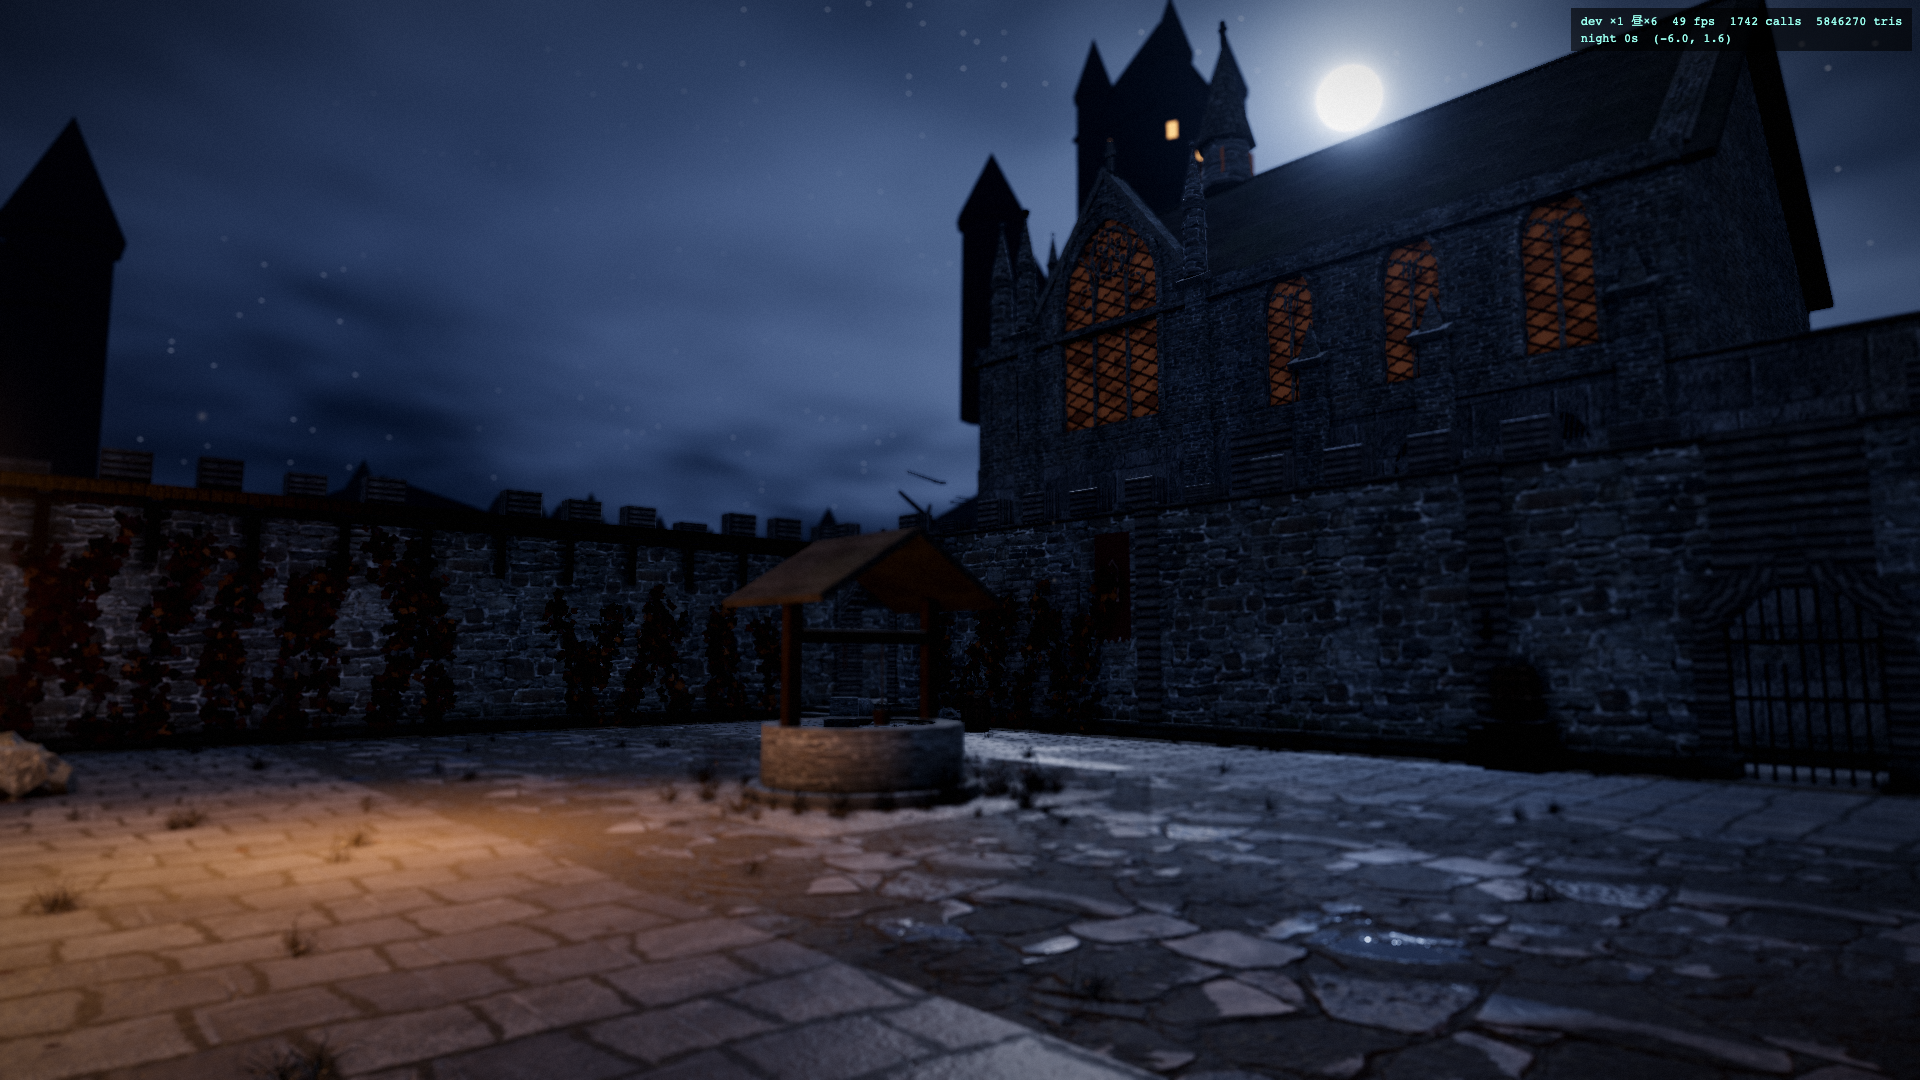
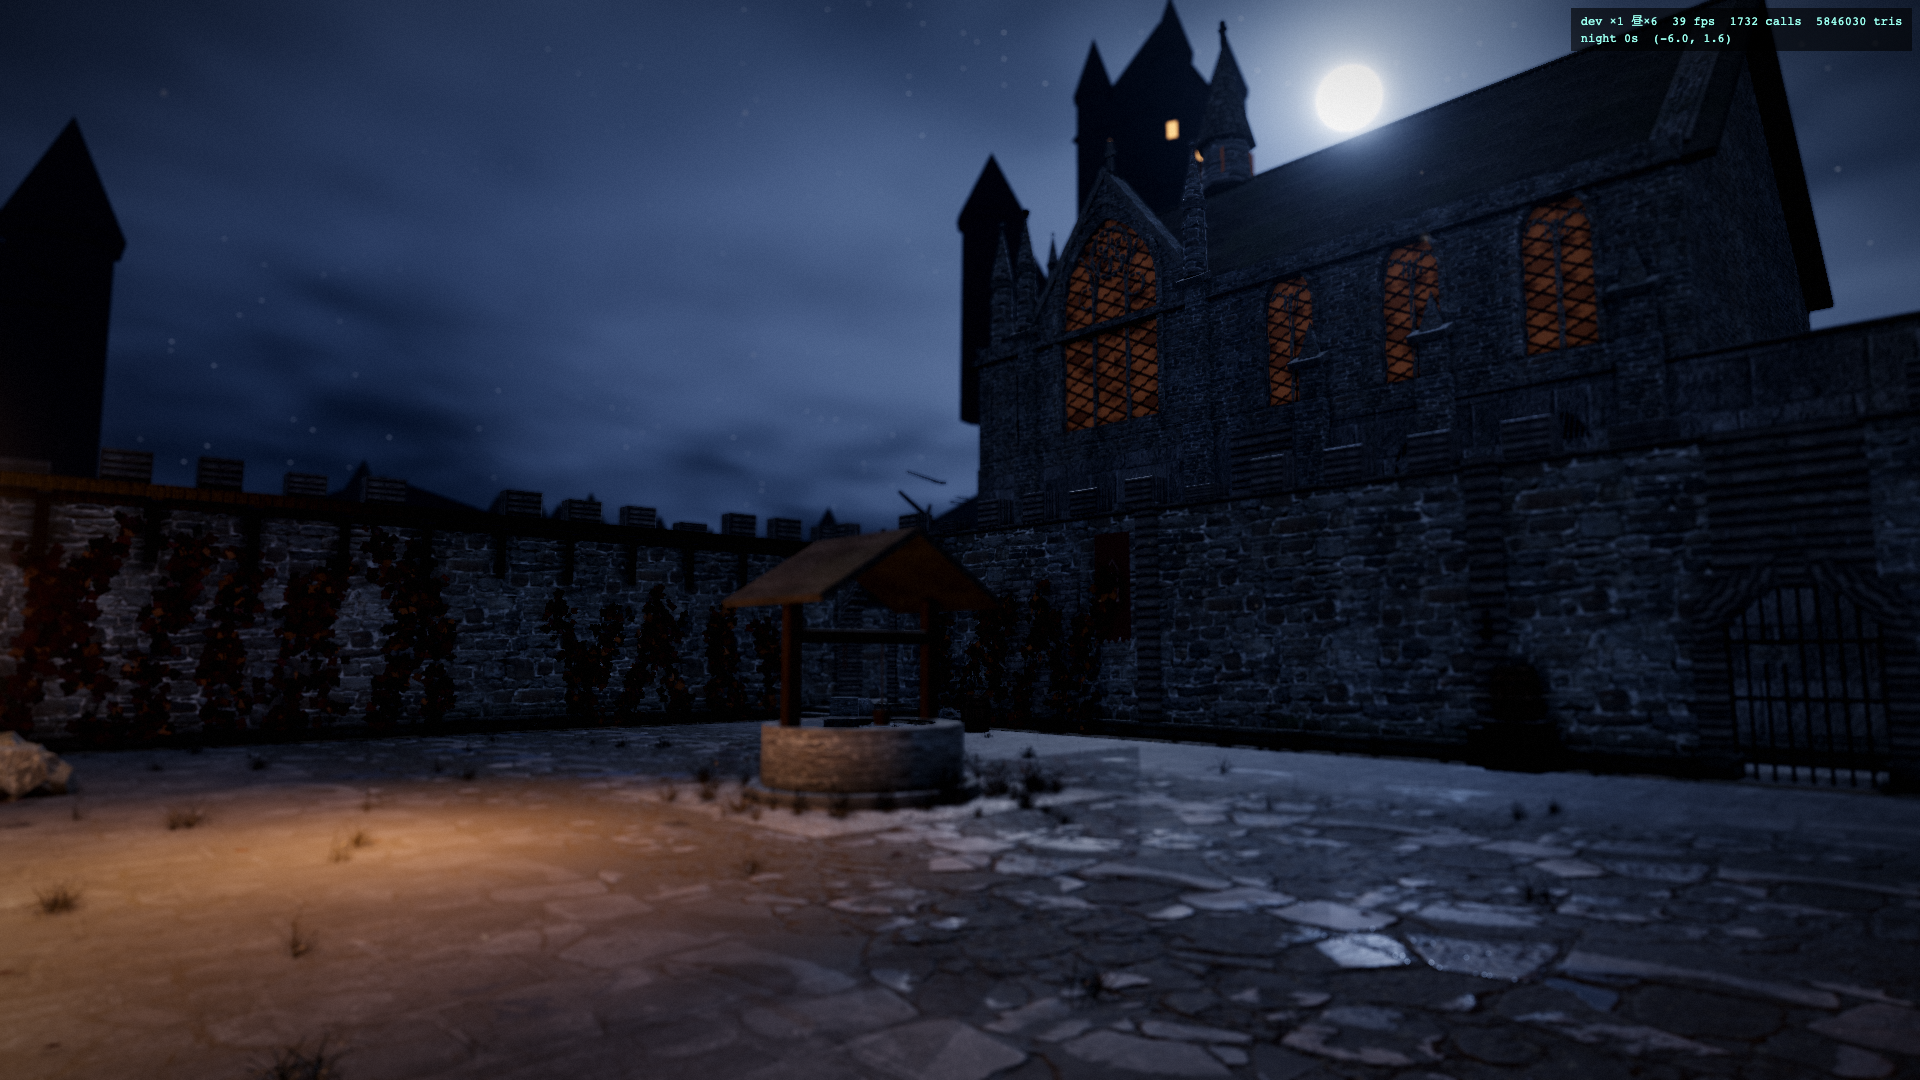
env: noise-blended main-path/edge floor transition; verify POM grazing at 1920x1080
- floor transition (bible 5.1 rule 4): courtyard is now one floorFlag mesh; shader blends
  monastery (main) <-> stone_pavers (edge) albedo/normal/roughness/height by world-x + low-freq
  noise mask (irregular boundary, ~1.2m band), dirt accents in band, edge grime gradient.
  Removes the straight x=+/-4.5 seam visible under the lamp pool.
- POM grazing clamp confirmed resolution-independent at 1920x1080 (north wall + extreme west
  wall grazing both readable, no black face).
- brightness via unified measure.sh: ref-day over 0 / gfrac 0 (no blown ground specular);
  albedo untouched per director (integration ground 0.365 in range with render exposure).
- vitest 108 pass; refreshed 6 verification screenshots.

diff --git a/src/render/materials.ts b/src/render/materials.ts
@@ -554,6 +554,14 @@ export interface AwUniforms {
   uAwPuddleAmt: { value: number };
   /** 积水洼地中心（世界 xz）+ 半径 + 强度，与 vfx.ts 的 PUDDLES 保持一致。 */
   uAwPuddles: { value: THREE.Vector4[] };
+  /** 主路↔边缘混合过渡（5.1 反重复第 4 条）：第二套贴图 + 世界 x 噪声遮罩，仅庭院地面启用。 */
+  uAwBlendAlbedo: { value: THREE.Texture };
+  uAwBlendNormal: { value: THREE.Texture };
+  uAwBlendRough: { value: THREE.Texture };
+  uAwBlendDisp: { value: THREE.Texture };
+  uAwHasBlend: { value: number };
+  uAwBlendHalf: { value: number };
+  uAwBlendBand: { value: number };
 }
 
 /** 庭院积水洼地（模拟坐标 x,z,r），与 vfx.ts PUDDLES 完全一致；着色器里 z 取负转到世界坐标。 */
@@ -589,6 +597,13 @@ export function awUniforms(floor: number, wet: number, desat: number, tint: [num
     uAwGrid: { value: 0 },
     uAwPuddleAmt: { value: 0 },
     uAwPuddles: { value: PUDDLE_CENTERS.map(([x, z, r]) => new THREE.Vector4(x, -z, r, 0.9)) },
+    uAwBlendAlbedo: { value: AW_FALLBACK_HEIGHT },
+    uAwBlendNormal: { value: AW_FALLBACK_HEIGHT },
+    uAwBlendRough: { value: AW_FALLBACK_HEIGHT },
+    uAwBlendDisp: { value: AW_FALLBACK_HEIGHT },
+    uAwHasBlend: { value: 0 },
+    uAwBlendHalf: { value: 4.5 },
+    uAwBlendBand: { value: 1.2 },
   };
 }
 
@@ -616,15 +631,18 @@ const AW_FRAG_PREFIX = /* glsl */`
 varying vec3 vAwWorldPos;
 varying vec3 vAwWorldNormal;
 uniform float uAwSteps, uAwFloor, uAwWet, uAwDesat, uAwHeightScale, uAwHasDisp, uAwHasCells, uAwGrid, uAwPuddleAmt;
+uniform float uAwHasBlend, uAwBlendHalf, uAwBlendBand;
 uniform vec2 uAwStreakBand;
 uniform vec4 uAwWear[3];
 uniform vec4 uAwPuddles[4];
 float awPolish;
 uniform vec3 uAwTint;
 uniform sampler2D uAwHeightMap, uAwAlbedo, uAwCellMap;
+uniform sampler2D uAwBlendAlbedo, uAwBlendNormal, uAwBlendRough, uAwBlendDisp;
 vec2 awUv;
-float awWet, awMoss, awBase, awMacro, awMacro2, awUp, awJGeo, awSlabHash, awPuddle, awStoneA, awEdge;
+float awWet, awMoss, awBase, awMacro, awMacro2, awUp, awJGeo, awSlabHash, awPuddle, awStoneA, awEdge, awBlend;
 vec2 awW;
+mat3 awTBNg;
 float awHash(vec2 p) { p = fract(p * vec2(123.34, 456.21)); p += dot(p, p + 45.32); return fract(p.x * p.y); }
 float awNoise(vec2 p) {
   vec2 i = floor(p), f = fract(p); f = f * f * (3.0 - 2.0 * f);
@@ -633,7 +651,9 @@ float awNoise(vec2 p) {
 }
 float awFbm(vec2 p) { return 0.6 * awNoise(p) + 0.3 * awNoise(p * 2.13 + 7.7) + 0.1 * awNoise(p * 4.7 + 3.1); }
 float awHeight(vec2 uv) {
-  return uAwHasDisp > 0.5 ? texture2D(uAwHeightMap, uv).r : dot(texture2D(uAwAlbedo, uv).rgb, vec3(0.3333));
+  float h = uAwHasDisp > 0.5 ? texture2D(uAwHeightMap, uv).r : dot(texture2D(uAwAlbedo, uv).rgb, vec3(0.3333));
+  if (uAwHasBlend > 0.5) h = mix(h, texture2D(uAwBlendDisp, uv).r, awBlend);
+  return h;
 }
 vec2 awPom(vec2 uv, vec3 vTs) {
   if (uAwSteps < 1.0) return uv;
@@ -664,6 +684,14 @@ const AW_MAP_BLOCK = /* glsl */`
 {
   vec3 awN = normalize(vAwWorldNormal);
   vec3 awV = normalize(cameraPosition - vAwWorldPos);
+  awW = vAwWorldPos.xz;
+  // 主路↔边缘混合遮罩（5.1 第 4 条）：世界 x + 低频噪声不规则边界，仅庭院地面（y≈0、|x|<11）
+  awBlend = 0.0;
+  if (uAwHasBlend > 0.5) {
+    float awBN = (awFbm(awW * 0.8 + 5.0) - 0.5) * 1.7;
+    awBlend = smoothstep(uAwBlendHalf - uAwBlendBand, uAwBlendHalf + uAwBlendBand, abs(vAwWorldPos.x) + awBN);
+    awBlend *= (1.0 - smoothstep(0.05, 0.2, vAwWorldPos.y)) * (1.0 - smoothstep(10.5, 11.5, abs(vAwWorldPos.x)));
+  }
   vec3 dp1 = dFdx(vAwWorldPos), dp2 = dFdy(vAwWorldPos);
   vec2 duv1 = dFdx(vMapUv), duv2 = dFdy(vMapUv);
   vec3 dp2p = cross(dp2, awN), dp1p = cross(awN, dp1);
@@ -671,8 +699,8 @@ const AW_MAP_BLOCK = /* glsl */`
   vec3 B = dp2p * duv1.y + dp1p * duv2.y;
   float invmax = inversesqrt(max(dot(T, T), dot(B, B)) + 1e-8);
   mat3 awTBN = mat3(T * invmax, B * invmax, awN);
+  awTBNg = awTBN;
   awUv = awPom(vMapUv, awV * awTBN);
-  awW = vAwWorldPos.xz;
   awMacro = awFbm(awW * 0.16 + 3.7);
   awMacro2 = awFbm(awW * 0.45 + 11.3);
   vec2 awWallUv = vec2(vAwWorldPos.x + vAwWorldPos.z, vAwWorldPos.y);
@@ -713,6 +741,11 @@ const AW_MAP_BLOCK = /* glsl */`
     awPuddle *= 1.0 - smoothstep(0.05, 0.2, vAwWorldPos.y); // 只在庭院地面，不上抬高的礼拜堂/外廊
     awPuddle = clamp(awPuddle, 0.0, 1.0);
     awWet = clamp(uAwWet * 0.45 + awPuddle, 0.0, 1.0);
+    // 过渡带内 monastery 单元特征渐隐，让位给边缘旧石板（避免两套缝叠加）
+    awJGeo *= 1.0 - awBlend;
+    awSlabHash = mix(awSlabHash, 0.5, awBlend);
+    awPuddle *= 1.0 - awBlend * 0.7;
+    awStoneA = mix(awStoneA, 1.0, awBlend);
   } else if (uAwFloor > 0.5) {
     // 离线兜底：错缝网格石板
     vec2 awCellUv = vMapUv * 4.0;
@@ -735,6 +768,10 @@ const AW_MAP_BLOCK = /* glsl */`
   }
 }
 vec4 sampledDiffuseColor = texture2D(map, awUv);
+// 主路↔边缘 albedo 混合（不规则噪声边界，消除直缝）
+if (uAwHasBlend > 0.5 && awBlend > 0.001) {
+  sampledDiffuseColor = mix(sampledDiffuseColor, texture2D(uAwBlendAlbedo, vMapUv), awBlend);
+}
 // 墙石：把过亮的白色灰缝压暗到石色系（高亮度 + 低饱和 = 灰缝）
 if (uAwFloor < 0.5) {
   float awLum0 = dot(sampledDiffuseColor.rgb, vec3(0.3333));
@@ -764,6 +801,11 @@ diffuseColor.rgb *= 1.0 - 0.62 * awJGeo;
   diffuseColor.rgb = mix(diffuseColor.rgb, vec3(0.043, 0.038, 0.030) * (0.7 + 0.6 * awMacro2), awJGeo * 0.85);
   float awGress = awJGeo * smoothstep(0.62, 0.82, awFbm(vMapUv * 90.0 + 7.0)) * uAwFloor;
   diffuseColor.rgb = mix(diffuseColor.rgb, vec3(0.15, 0.15, 0.085), awGress * 0.5);
+  // 过渡带混入泥土点缀（"被人踩出来的路"而非施工缝），边缘渐脏
+  float awBand = awBlend * (1.0 - awBlend) * 4.0;
+  float awDirt = awBand * smoothstep(0.52, 0.74, awFbm(awW * 1.6 + 8.0));
+  diffuseColor.rgb = mix(diffuseColor.rgb, vec3(0.05, 0.045, 0.037) * (0.7 + 0.6 * awMacro2), awDirt * 0.7);
+  diffuseColor.rgb *= 1.0 - 0.12 * awBlend * uAwFloor;
   // 石板边缘倒角积 dirt
   diffuseColor.rgb *= 1.0 - 0.22 * (1.0 - smoothstep(0.0, 0.5, awEdge)) * awStoneA * uAwFloor;
   diffuseColor.rgb *= 1.0 - 0.5 * awBase;
@@ -777,6 +819,9 @@ diffuseColor.rgb *= 1.0 - 0.62 * awJGeo;
 
 const AW_ROUGH_BLOCK = /* glsl */`
 roughnessFactor = clamp(roughnessFactor, 0.0, 1.0);
+if (uAwHasBlend > 0.5 && awBlend > 0.001) {
+  roughnessFactor = mix(roughnessFactor, texture2D(uAwBlendRough, vMapUv).r * 0.82, awBlend);
+}
 roughnessFactor *= 1.0 - 0.22 * awWet * uAwFloor * (1.0 - awPuddle);
 roughnessFactor = mix(roughnessFactor, 0.34, awPolish);
 roughnessFactor = mix(roughnessFactor, 0.92, awJGeo * 0.55);
@@ -787,6 +832,12 @@ roughnessFactor = max(roughnessFactor, awJGeo * 0.55); // 石缝/灰浆不得镜
 `;
 
 const AW_NORMAL_BLOCK = /* glsl */`
+if (uAwHasBlend > 0.5 && awBlend > 0.001) {
+  vec3 awBN = texture2D(uAwBlendNormal, vMapUv).xyz * 2.0 - 1.0;
+  awBN.xy *= normalScale;
+  vec3 awBlendN = normalize(mat3(viewMatrix) * normalize(awTBNg * awBN)); // 世界→视图空间再混
+  normal = normalize(mix(normal, awBlendN, awBlend));
+}
 normal = normalize(mix(normal, nonPerturbedNormal, clamp(awPuddle * 0.9 + awMoss * 0.2 + awPolish * 0.3, 0.0, 1.0)));
 `;
 
@@ -887,6 +938,22 @@ function loadFlagstone(mat: THREE.MeshStandardMaterial, normalScale: number, pen
       u.uAwHasCells.value = 1;
     } catch { /* 保留兜底 */ }
   });
+  // 边缘旧石板 stone_pavers 作为混合目标：主路↔边缘世界 x 噪声过渡（5.1 第 4 条）
+  const grabB = (slot: string, srgb: boolean, apply: (t: THREE.Texture) => void): void => {
+    pending.push(new Promise<void>((resolve) => {
+      loader.load(`textures/stone_pavers_${slot}.jpg`, (t) => {
+        t.wrapS = t.wrapT = THREE.RepeatWrapping;
+        t.colorSpace = srgb ? THREE.SRGBColorSpace : THREE.NoColorSpace;
+        t.anisotropy = 8;
+        apply(t);
+        resolve();
+      }, undefined, () => resolve());
+    }));
+  };
+  grabB('diff', true, (t) => { u.uAwBlendAlbedo.value = t; });
+  grabB('nor', false, (t) => { u.uAwBlendNormal.value = t; });
+  grabB('rough', false, (t) => { u.uAwBlendRough.value = t; });
+  grabB('disp', false, (t) => { u.uAwBlendDisp.value = t; u.uAwHasBlend.value = 1; });
 }
 
 /** 把额外的异步资源（如 glTF 模型）并入 texturesReady 的等待链。 */

diff --git a/src/render/staticLevel.ts b/src/render/staticLevel.ts
@@ -249,9 +249,9 @@ export function buildStaticLevel(m: Materials): StaticLevel {
 
   // 地面分区（5.1）：主路 floorFlag 大石板，边缘 floorFlagWorn，井台/侧廊 floorCobble，墙脚 floorDirt 过渡带。
   b.box(m.gravel, -90, -70, 90, 110, -0.6, -0.04, 3);
-  b.box(v.floorFlag, -4.5, 0, 4.5, 29, -0.3, 0, 3.6);          // 中央主路（不规则大石板）
-  b.box(v.floorFlagWorn, -10.5, 0, -4.5, 29, -0.3, 0, 3);      // 西边缘旧石板
-  b.box(v.floorFlagWorn, 4.5, 0, 10.5, 29, -0.3, 0, 3);        // 东边缘旧石板
+  // 庭院地面单块 floorFlag：着色器内按世界 x + 噪声遮罩混合主路（monastery 不规则大石板）↔边缘（stone_pavers 旧石板），
+  // 过渡带 0.8–1.5 m 不规则边界 + 泥土点缀，消除直缝（5.1 第 4 条）。
+  b.box(v.floorFlag, -10.5, 0, 10.5, 29, -0.3, 0, 3.6);
   b.box(v.floorCobble, WELL.x - 2.3, WELL.z - 2.3, WELL.x + 2.3, WELL.z + 2.3, -0.3, 0.004, 1.6); // 井台一圈卵石
   b.box(v.floorCobble, 10.5, 1.5, 13, 17.5, -0.3, 0.004, 1.6); // 侧廊卵石
   // 墙脚泥土落叶过渡带（0.7 m，微微抬高避免 z-fight，落叶/草覆盖接缝）
